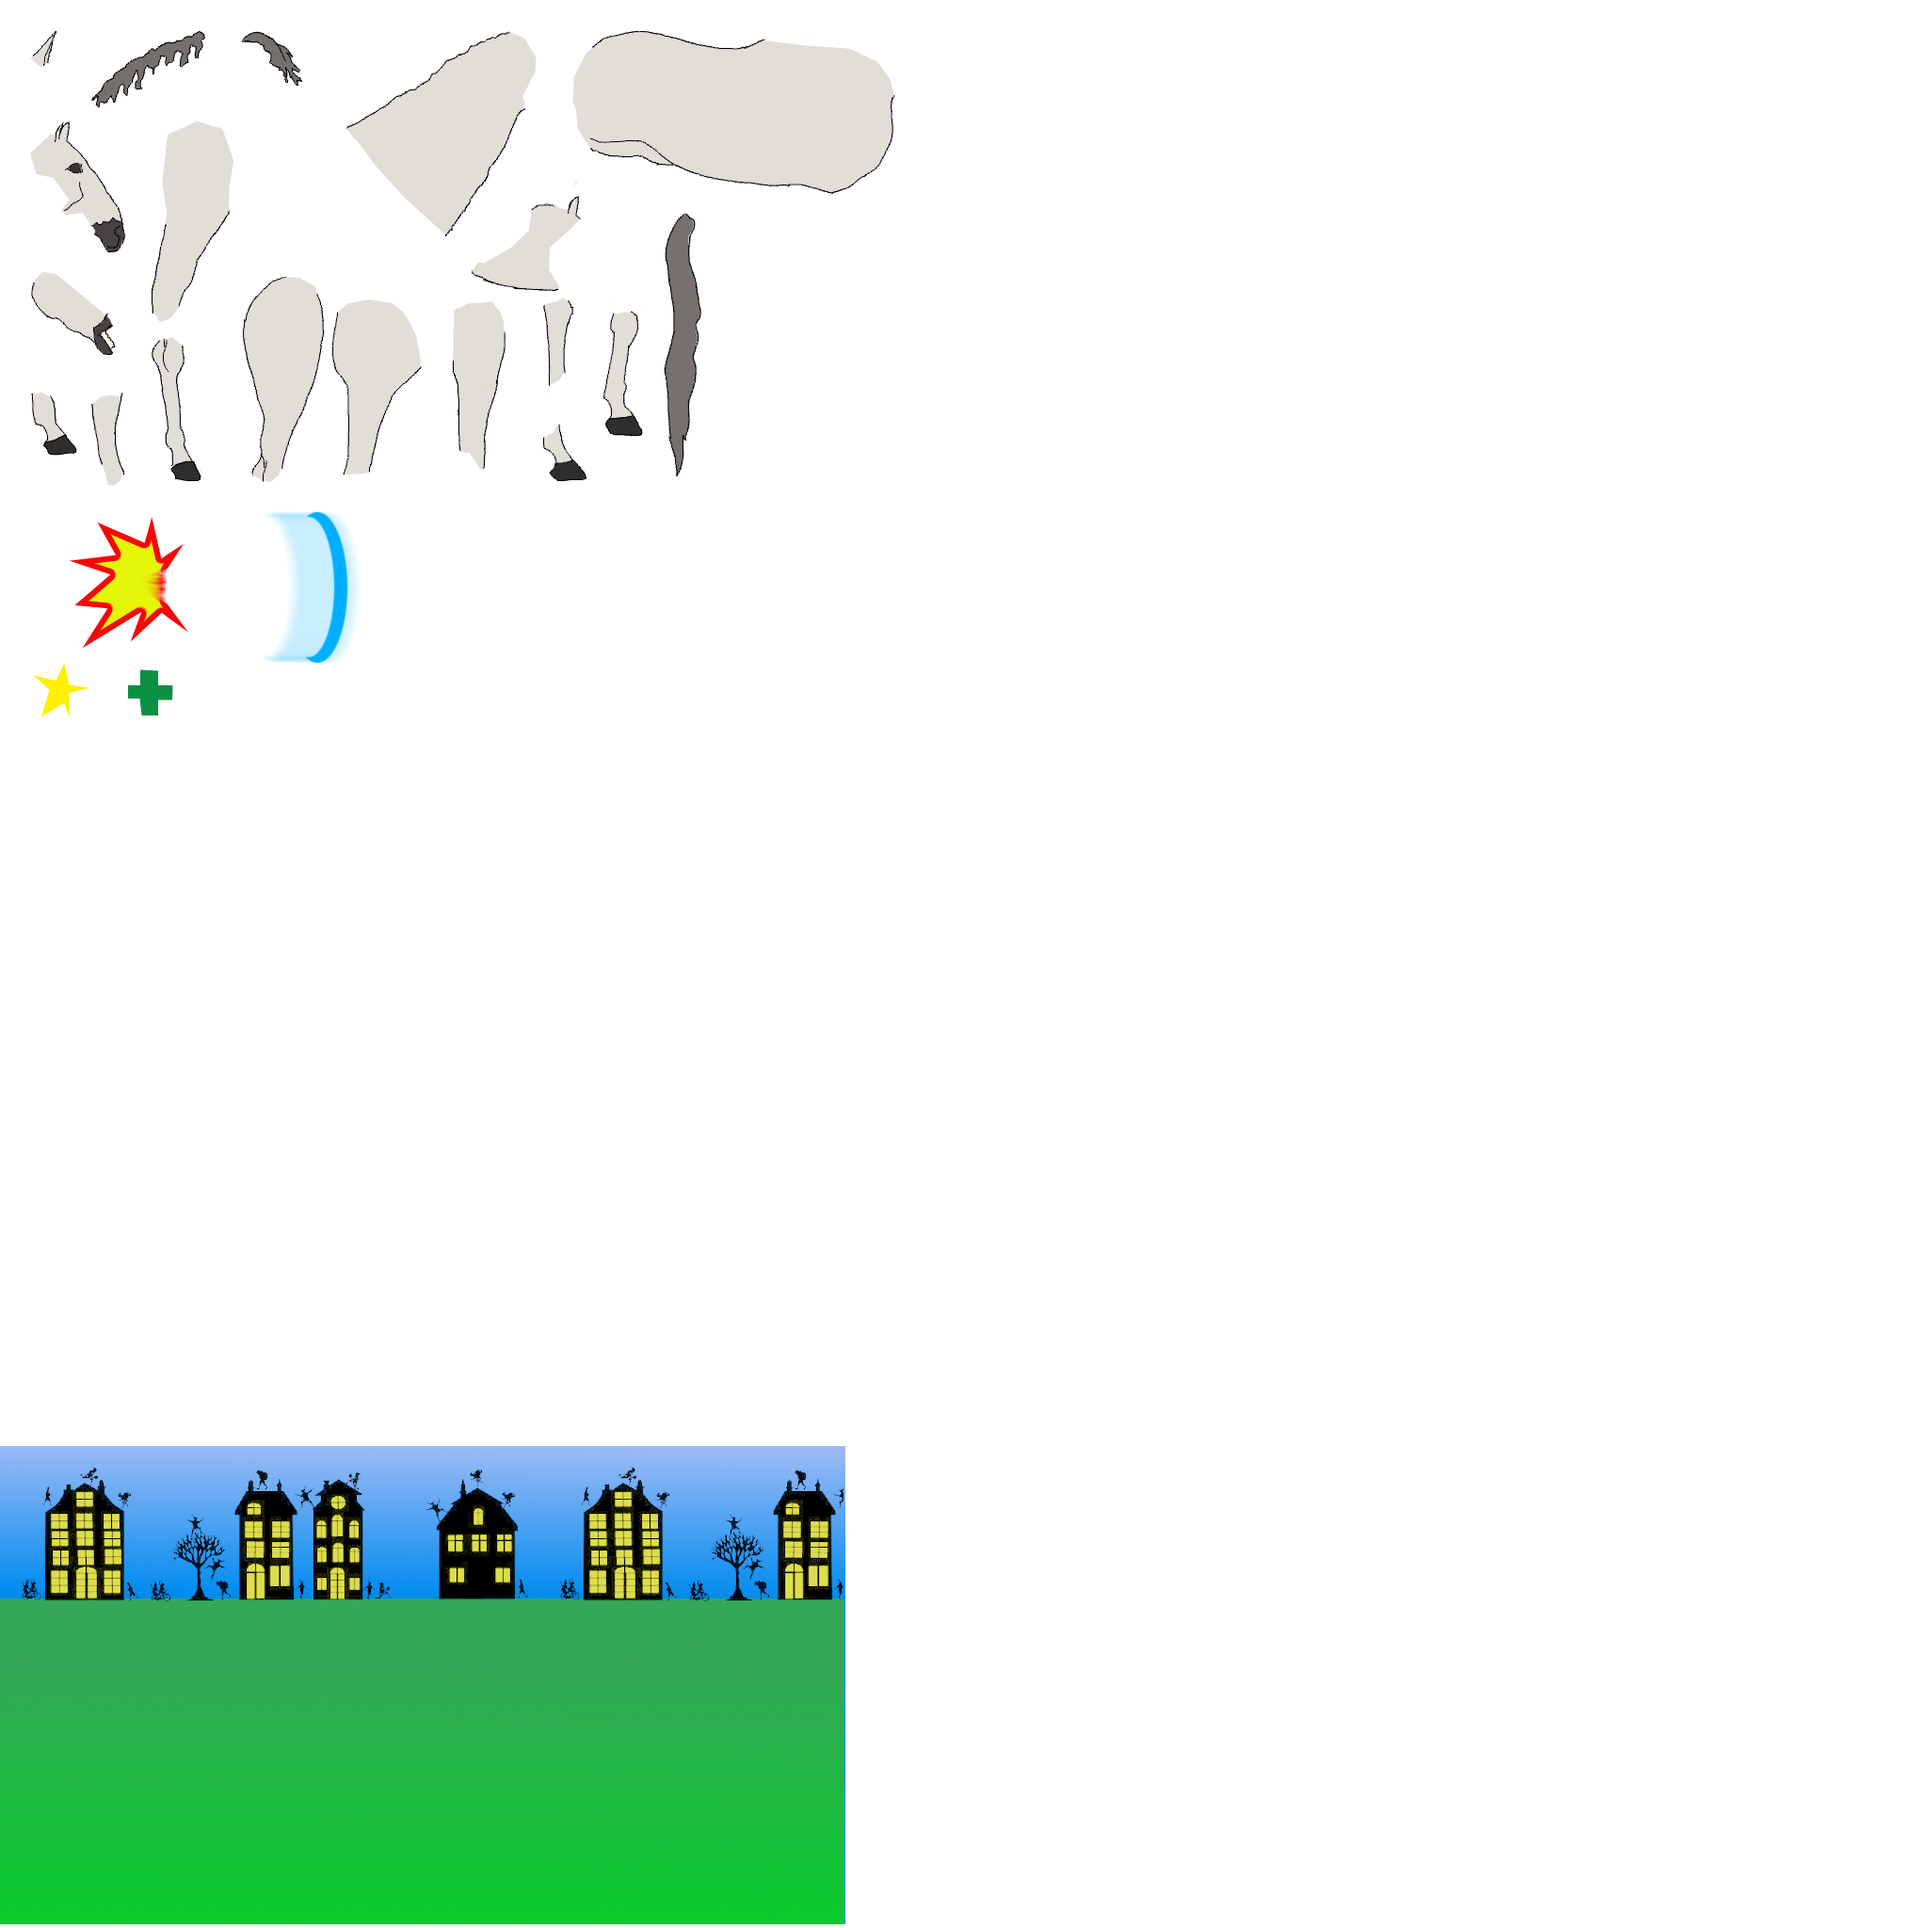
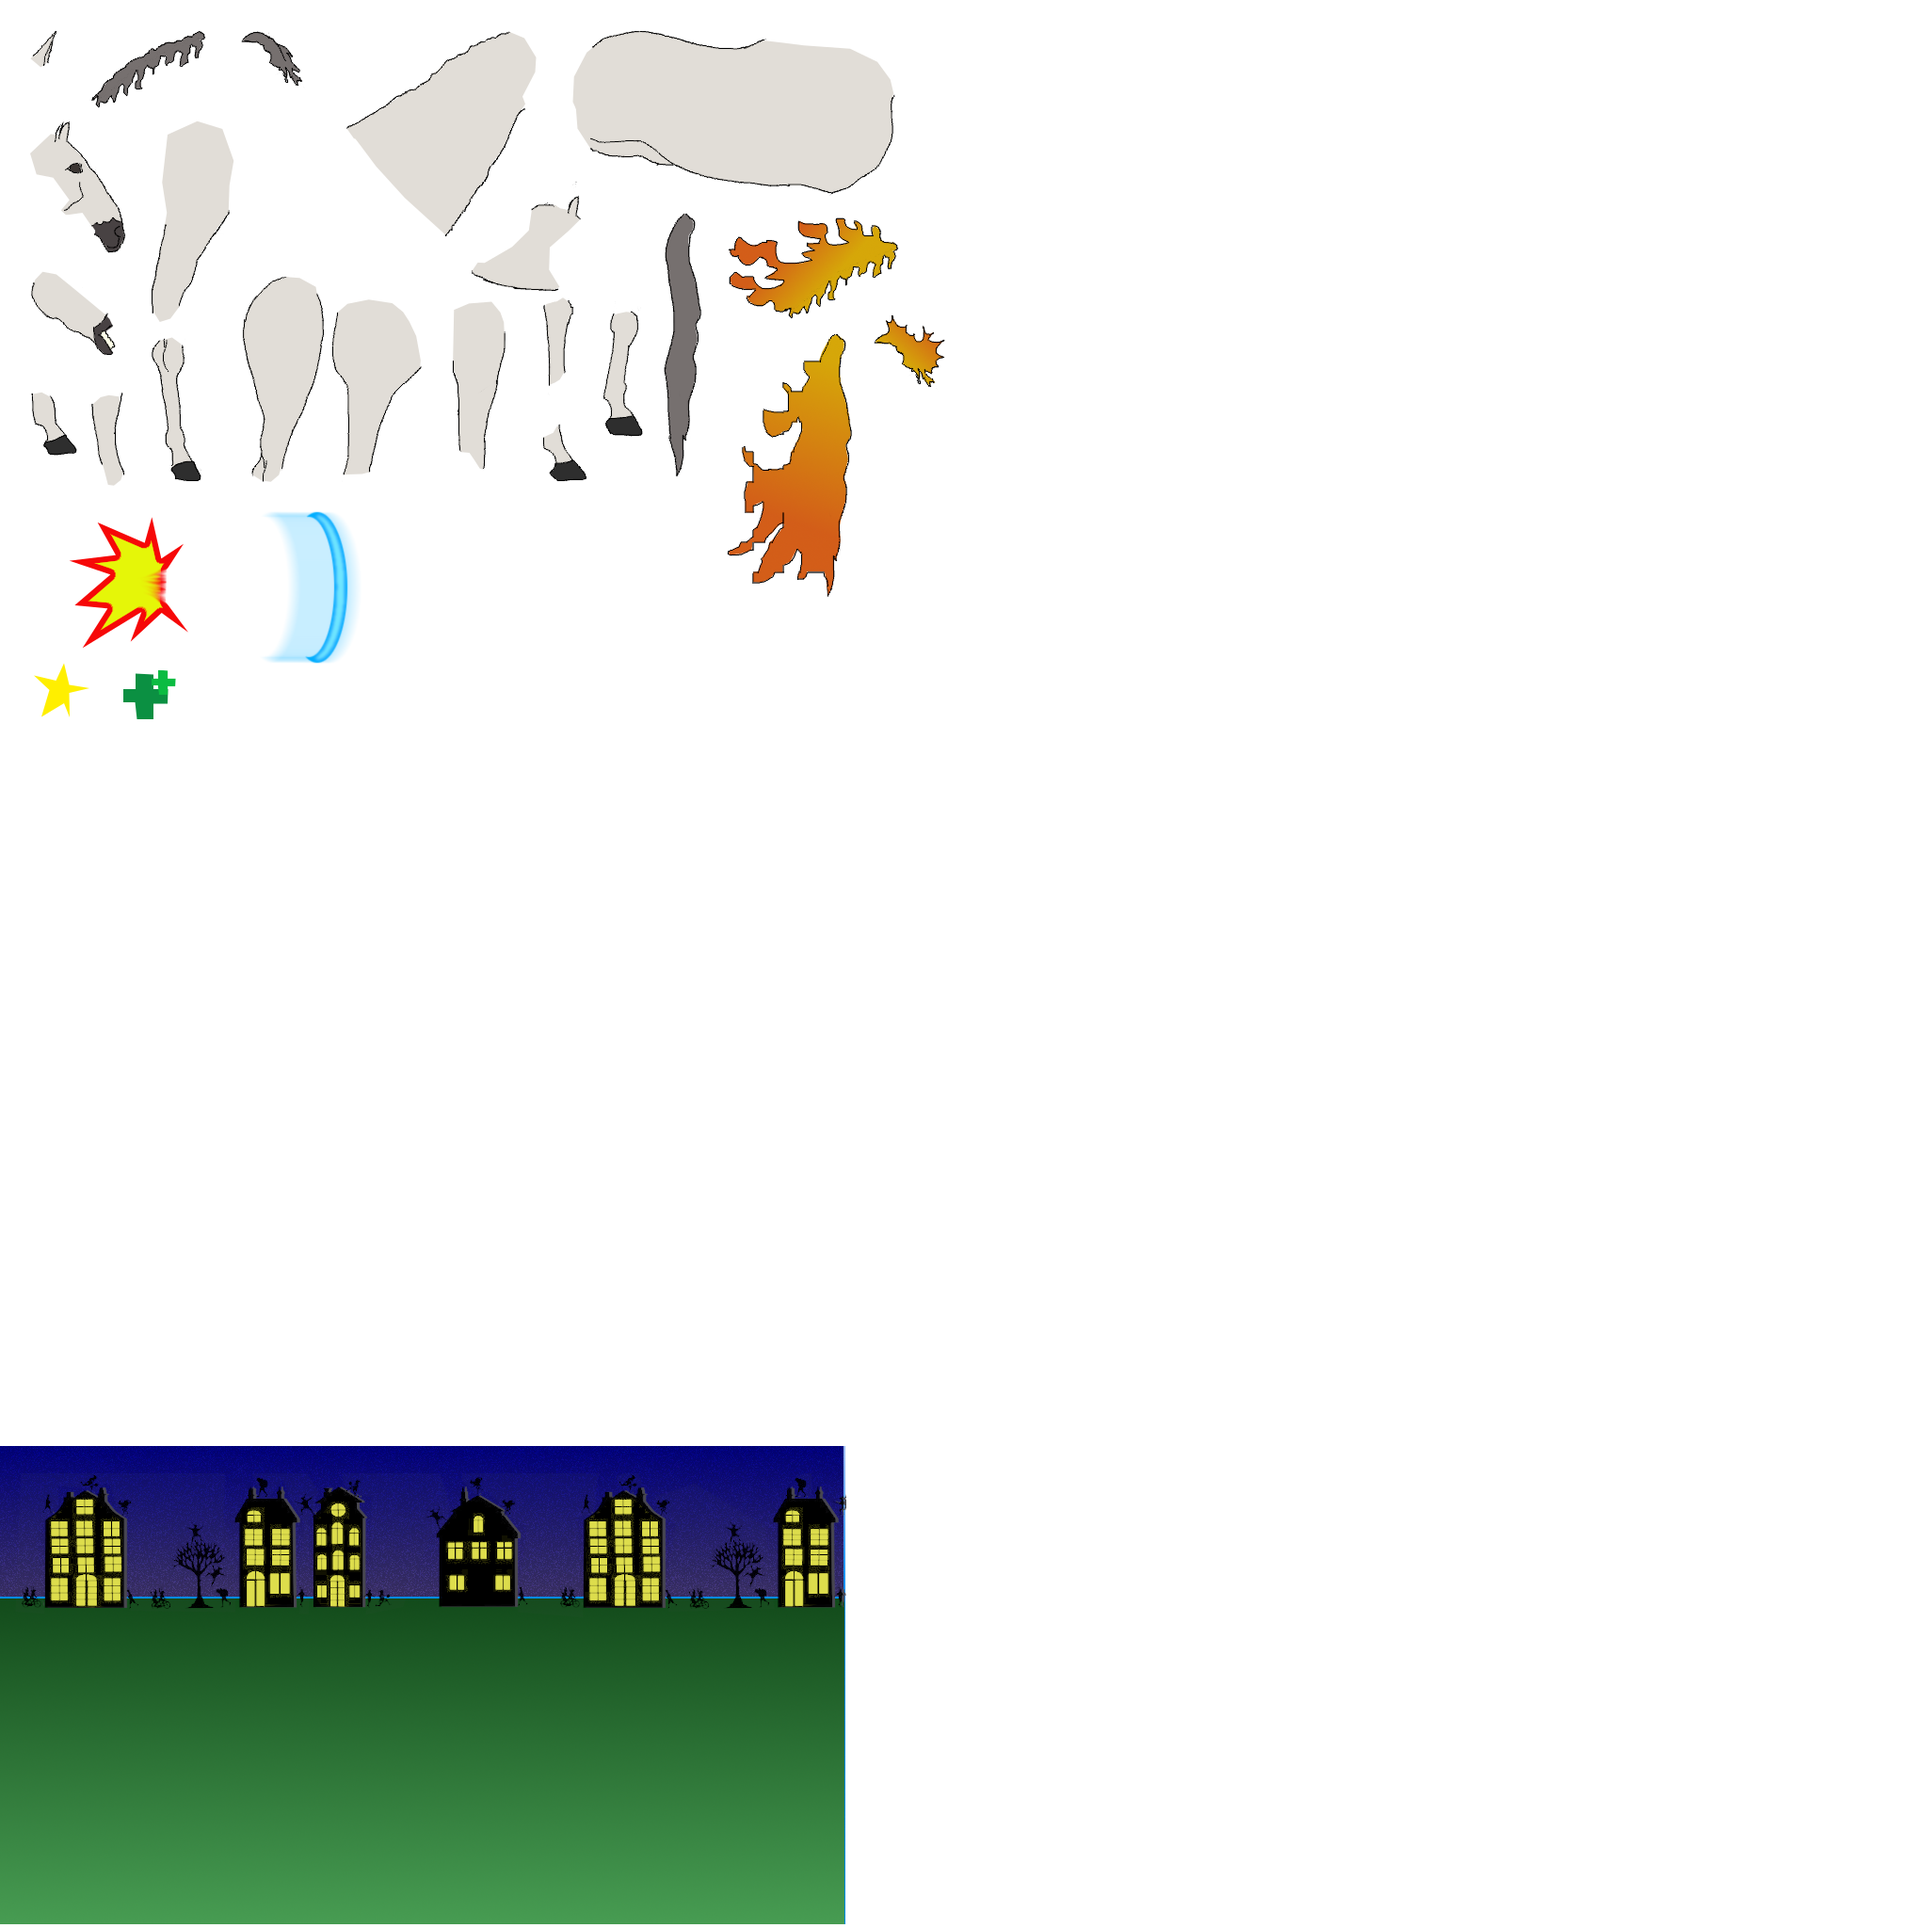
Style Ameerigogo

diff --git a/src/data/creatures.ts b/src/data/creatures.ts
@@ -2,6 +2,7 @@ import { ImageDefinition, prepareAnimation } from "geppetto-player";
 import { CreatureCard, CreatureCardId, Dialog } from "../types";
 import amerigoTexture from "./geppetto/combat_characters.png";
 import amerigoAnimation from "./geppetto/amerigo.json";
+import ameerigogoAnimation from "./geppetto/ameerigogo.json";
 
 const loadTexture = async (url: string): Promise<HTMLImageElement> =>
   new Promise((resolve) => {
@@ -30,7 +31,7 @@ const amerigo: CreatureCard = {
   actions: [
     {
       name: "Kopstoot",
-      animationTrack: "headbutt",
+      animationTrack: { track: "headbutt", target: "self" },
       damage: 5,
       cost: 0,
       cooldown: 0,
@@ -38,7 +39,7 @@ const amerigo: CreatureCard = {
     },
     {
       name: "Hoeftrap",
-      animationTrack: "kick",
+      animationTrack: { track: "kick", target: "self" },
       damage: 15,
       cost: 2,
       cooldown: 1,
@@ -66,11 +67,14 @@ const ameerigogo: CreatureCard = {
   energy: 8,
 
   texture: genericCombatTexture,
-  animation: prepareAnimation(amerigoAnimation as unknown as ImageDefinition),
+  animation: prepareAnimation(
+    ameerigogoAnimation as unknown as ImageDefinition
+  ),
 
   actions: [
     {
       name: "Kopstoot",
+      animationTrack: { track: "headbutt", target: "self" },
       damage: 10,
       cost: 0,
       cooldown: 0,
@@ -78,6 +82,7 @@ const ameerigogo: CreatureCard = {
     },
     {
       name: "Hoeftrap",
+      animationTrack: { track: "kick", target: "self" },
       damage: 24,
       cost: 2,
       cooldown: 1,
@@ -92,6 +97,8 @@ const ameerigogo: CreatureCard = {
     },
     {
       name: "Wortelfeest",
+      // animationTrack: { track: "healing", target: "environment" },
+
       damage: -40,
       cost: 4,
       cooldown: 4,

diff --git a/src/components/CombatView.tsx b/src/components/CombatView.tsx
@@ -83,7 +83,12 @@ const getAnimationStates = (log: ActionSentence[]): Record<string, string> => {
     const sourceCard = creatures[entry.source.card];
     const sourceAction = sourceCard.actions.find((a) => a.name === entry.with);
     if (sourceAction && sourceAction.animationTrack) {
-      states[entry.source.id] = sourceAction.animationTrack;
+      if (sourceAction.animationTrack.target === "self") {
+        states[entry.source.id] = sourceAction.animationTrack.track;
+      }
+      if (sourceAction.animationTrack.target === "environment") {
+        states["background"] = sourceAction.animationTrack.track;
+      }
     }
 
     states[entry.target.id] = trackMapping[entry.action];

diff --git a/src/types.ts b/src/types.ts
@@ -103,7 +103,7 @@ export type Action = {
   name: string;
   damage: number;
   damageType?: "stun";
-  animationTrack?: string;
+  animationTrack?: { track: string; target: "self" | "environment" };
   cost: number;
   cooldown: number;
   targets: ActionTarget[];
